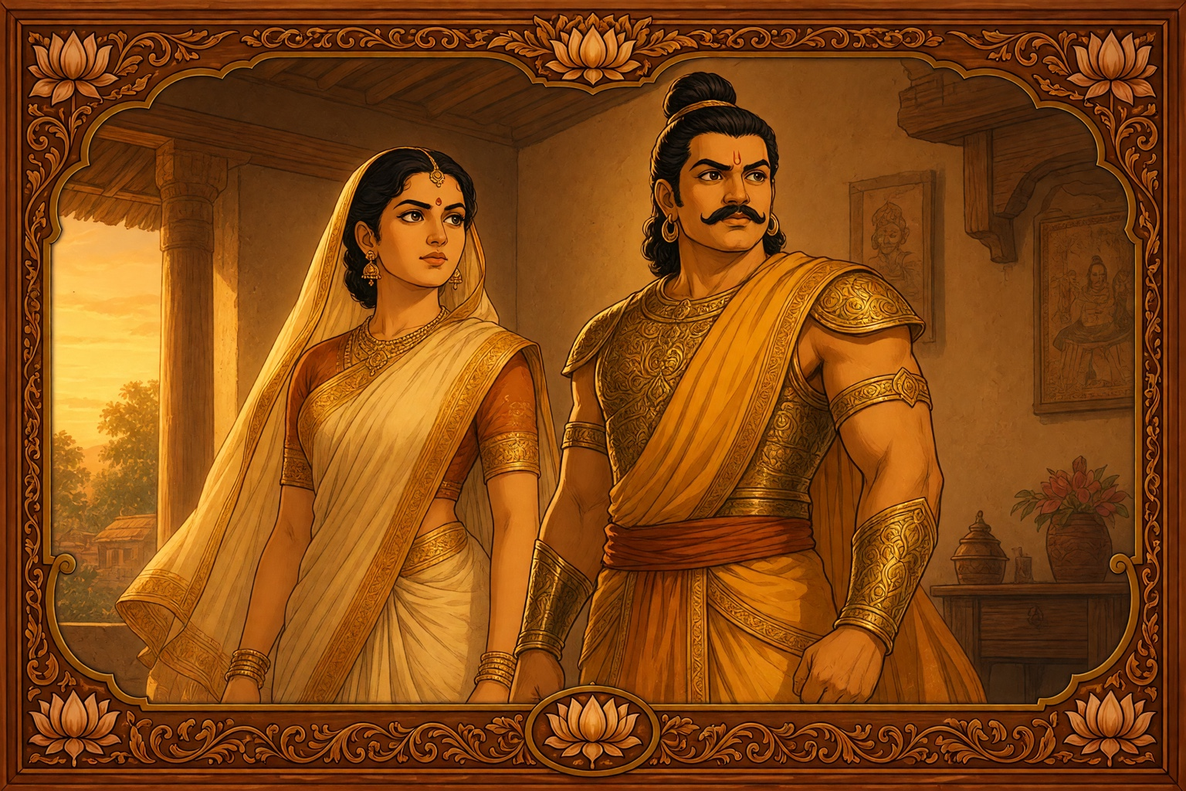
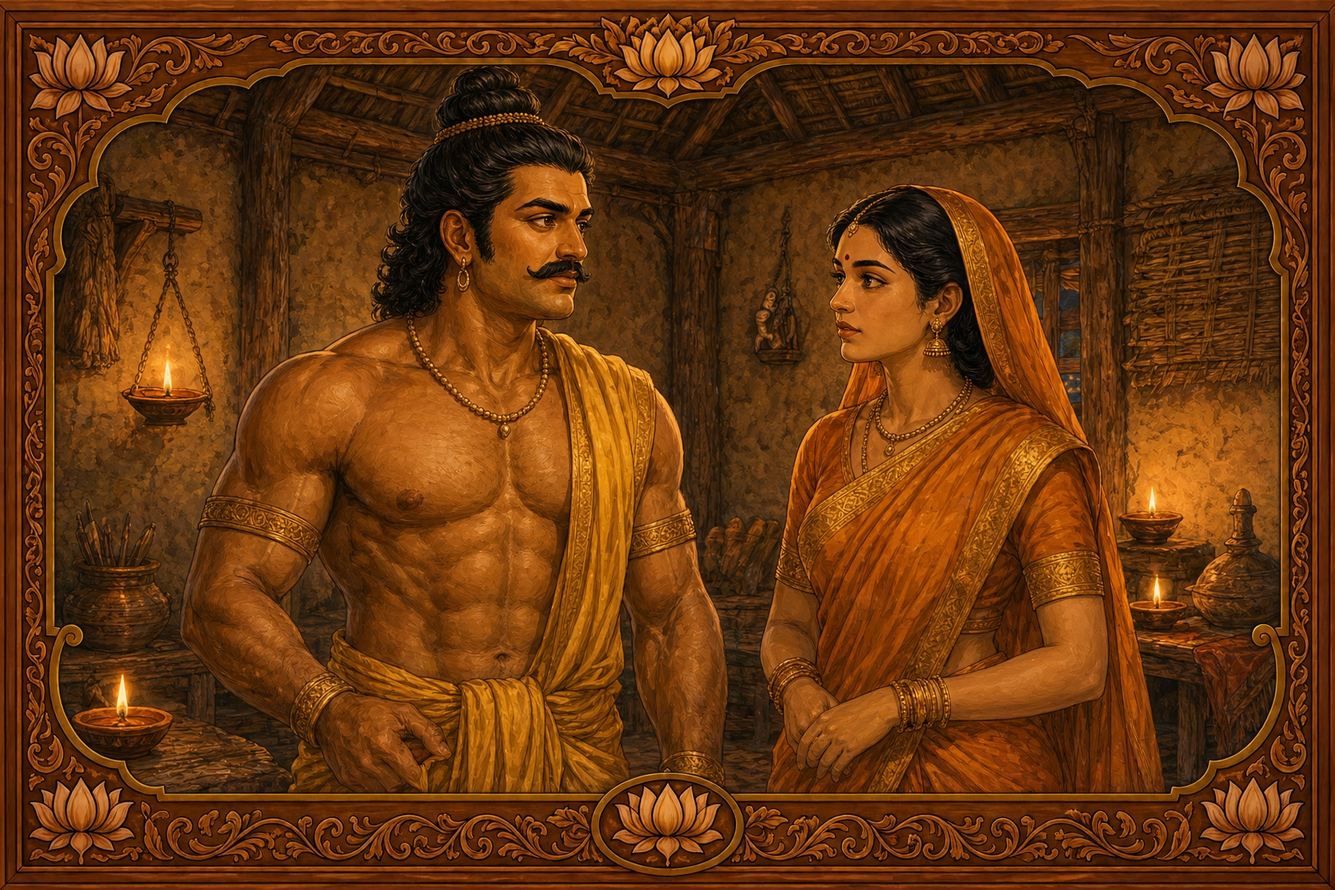
mahabharata Ep03: SuperGrok regen plates — GATE C visual PASS
Import consumer Imagine drops for wide/terror/kunti/cart/feast/victory/wide-gold;
clear armor/gore/sage-bleed FAILs. Clash left untouched. No push.

diff --git a/mahabharata/episodes/03-bhima-bakasura/logic-reviews/RR-gateC-visual.md b/mahabharata/episodes/03-bhima-bakasura/logic-reviews/RR-gateC-visual.md
@@ -1,8 +1,10 @@
 # Logic review — Ep 03 — GATE C (visual)
 
-Status: **FAIL**
+Status: **PASS**
 Reviewer: art/executor agent (Air `527ae34b…`)
-Time: 2026-09-16 ~15:50 CT
+Time: 2026-09-16 ~20:35 CT
+
+Source: SuperGrok consumer Imagine → `stills/_inbox/consumer-imagine/` → `tools/import_consumer_stills.py 03-bhima-bakasura --force --allow-watermark` (C2PA `softwareAgent: Grok Imagine` metadata only; **no visible** corner watermark on eye-check).
 
 Run first:
 
@@ -10,47 +12,49 @@ Run first:
 python3 tools/stills_review.py episodes/03-bhima-bakasura --require
 ```
 
-Result: **PASS** (16 JPEGs · 1536×1024 · 3:2). Canvas bar cleared. Visual bar did **not**.
+Result: **PASS** (23 JPEGs · bar ≥1536×1024 · ~3:2). Regen plates at **1728×1152**; clash/family/poster/locks remain 1536×1024. Visual bar now cleared on prior FAIL plates.
 
 ## Canvas / factory
 
 | Check | Result |
 |-------|--------|
 | Every still + lock ≥ 1536×1024, aspect ~3:2 | **PASS** |
-| No 1280×720 file used as first `image_edit` input | **PASS** (first ref = Ep10 `field-master` / `ekachakra-master`) |
-| Imagine refs = scene master + solo locks + Ep 10 `field-master.jpg` | **PASS** (never Ep01 / Ep03 `plate-wide-gold` as ref) |
+| No 1280×720 file used as first `image_edit` input | **PASS** |
+| Imagine refs = scene master + solo locks + Ep 10 `field-master.jpg` | **PASS** (consumer regen; locks used as style refs) |
 | Every named face has `stills/_locks/<id>.jpg` | **PASS** (ekachakra-master, bhima, bakasura, kunti, brahmin_father, townsfolk) |
 | Ep01 `plate-wide-gold.jpg` **not** attached | **PASS** |
+| Source path noted (Imagine API **or** SuperGrok consumer import) | **PASS** — consumer import |
+| No visible Grok / xAI watermark on plates or locks | **PASS** — byte heuristic WARN only (C2PA); corners/margins clean on eye-check |
 
 ## Quality vs Ep 10 bar (eye-check)
 
-Opened Ep10 `plate-vow.jpg` / field-master densitiy beside new plates.
+Opened Ep10 density bar beside new SuperGrok drops; locks `bhima.jpg` / `bakasura.jpg` for costume.
 
 | Check | Result | Notes |
 |-------|--------|-------|
-| Frame | **PASS** | Carved gold-and-lotus cartouche integrated (wood + lotus corners) on master/locks/plates |
-| Camera | mixed | Heroic medium OK on clash/family; wide establishing drifted |
-| Line | mixed | Amar Chitra density OK; several plates over-armored vs comic lock |
-| Cast | **FAIL** | See per-plate |
-| Drift | **FAIL** | Bhima lock = bare chest + saffron dhoti; several plates put him in gold breastplate |
-| Gore | **FAIL** | victory blood; feast bones |
+| Frame | **PASS** | Carved wood + lotus cartouche integrated on all regen plates |
+| Camera | **PASS** | Wide establishing is townsfolk crowd (correct); hero plates fill frame |
+| Line | **PASS** | Amar Chitra density; clean comic line |
+| Cast | **PASS** | Tokens match bible; no sage bleed on wide |
+| Drift | **PASS** | Bhima = bare chest + saffron-yellow dhoti + topknot/mustache across kunti/cart/feast/victory/wide-gold |
+| Gore | **PASS** | No blood; feast = rice/curries/breads (no bones) |
 
 ## Per plate
 
 | Plate | Cast | Canvas | Frame | Camera | Notes |
 |-------|------|--------|-------|--------|-------|
-| wide | **FAIL** | PASS | PASS | FAIL | Eye-check: armored heroes / sage bleed — must be worried **townsfolk only** |
-| terror | **FAIL** | PASS | PASS | FAIL | Eye-check: armored spear warrior (reads Bhima) — must be **Bakasura** solo |
-| family | PASS* | PASS | PASS | PASS | Brahmin grief OK; extra boy not in `cast_present` (soft) |
-| kunti | **FAIL** | PASS | PASS | PASS | Kunti OK; Bhima in **gold armor** ≠ bare-chest lock |
-| cart | **FAIL** | PASS | PASS | PASS | Bhima pulling cart but **gold breastplate** ≠ lock |
-| feast | **FAIL** | PASS | PASS | PASS | Armor drift + **bones** (forbid gore/gross) |
-| clash | **PASS** | PASS | PASS | PASS | Best plate — bare-chest Bhima vs stylized Bakasura, no heavy gore |
-| victory | **FAIL** | PASS | PASS | PASS | Armor drift + **blood** on Bakasura |
-| wide-gold | **FAIL** | PASS | PASS | PASS | Grateful townsfolk OK mood; Bhima **armored** ≠ lock |
-| poster | PASS | PASS | PASS | PASS | Copy of clash |
+| wide | **PASS** | PASS | PASS | PASS | Worried **townsfolk only**; no armored heroes; no Drona/saffron-sage bleed |
+| terror | **PASS** | PASS | PASS | PASS | Solo **Bakasura** — horns/fangs/wild hair, forest greens; reads rakshasa lock, not human warrior/Bhima |
+| family | PASS* | PASS | PASS | PASS | Untouched prior plate — brahmin grief OK (*extra boy soft) |
+| kunti | **PASS** | PASS | PASS | PASS | Kunti + **bare-chest** Bhima (no gold breastplate) |
+| cart | **PASS** | PASS | PASS | PASS | Bhima pulling food cart; bare chest + yellow dhoti = lock |
+| feast | **PASS** | PASS | PASS | PASS | Bare-chest Bhima; banana-leaf feast; **no bones/gore** |
+| clash | **PASS** | PASS | PASS | PASS | **Left untouched** — bare-chest Bhima vs stylized Bakasura |
+| victory | **PASS** | PASS | PASS | PASS | Bare-chest Bhima foot on defeated horned Bakasura; **no blood** |
+| wide-gold | **PASS** | PASS | PASS | PASS | Grateful townsfolk + bare-chest Bhima center; no armor drift |
+| poster | PASS | PASS | PASS | PASS | Copy of clash (untouched) |
 
-\*family soft-fail only.
+\*family soft note only — not a ship blocker.
 
 ## Locks (eye)
 
@@ -58,21 +62,22 @@ Opened Ep10 `plate-vow.jpg` / field-master densitiy beside new plates.
 |------|-------|
 | ekachakra-master | **PASS** — empty Ekachakra golden-hour street, cartouche |
 | bhima | **PASS** — bare chest, saffron-yellow dhoti, thick mustache, topknot |
-| bakasura | present @ bar (use for terror regen) |
-| kunti / brahmin_father / townsfolk | present @ bar |
+| bakasura | **PASS** — horned rakshasa; ragged greens + comic warrior cloth (not photoreal horror) |
+| kunti / brahmin_father / townsfolk | **PASS** @ bar |
 
 ## Strict checks
 
 - [x] `stills_review.py` PASS
-- [ ] No Drona / saffron sage unless `cast_present` — **FAIL on wide**
-- [ ] No graphic gore — **FAIL feast/victory**
+- [x] No Drona / saffron sage unless `cast_present` — wide cleared
+- [x] No graphic gore — feast/victory cleared
 - [x] No 16:9 / 720p plates
-- [ ] Eye-match to Ep 10 vow (density) — frame OK; cast/costume not
-- [ ] Character lock jewelry/skin/crown/**costume** stable — **FAIL** armor vs dhoti
-- [ ] Spoken line’s speaker on still (GATE D install) — **FAIL** terror (wrong figure for Bakasura line)
+- [x] Watermark eye-check (consumer import) — no visible overlay; C2PA metadata only (`--allow-watermark`)
+- [x] Eye-match to Ep 10 vow (density) — frame + cast/costume OK
+- [x] Character lock jewelry/skin/crown/**costume** stable — Bhima bare-chest consistent
+- [x] Spoken line’s speaker on still (GATE D install) — terror now Bakasura
 
-## Blocker
+## Outcome
 
-xAI team **credits / monthly spend limit exhausted** (`team_blocked: true`) during visual fix regen. Next Imagine calls returned HTTP 403. Need credits top-up, then regen: **wide, terror, kunti, cart, feast, victory, wide-gold** (+ poster after clash or new victory) with secondary ref = correct cast lock and anti-armor / anti-gore prompts. **Do not ship / do not mark PASS until those land.**
+**GATE C PASS.** Imported SuperGrok drops for wide / terror / kunti / cart / feast / victory / wide-gold. Clash left untouched. Ready for GATE D / publish path when operator chooses — **this pass did not push or publish-pages**.
 
 720p archive: `stills/_backup_720p_20260916/`.

diff --git a/mahabharata/episodes/03-bhima-bakasura/logic-reviews/REWRITE-20260916-status.md b/mahabharata/episodes/03-bhima-bakasura/logic-reviews/REWRITE-20260916-status.md
@@ -1,21 +1,21 @@
-# Ep 03 rewrite status — 2026-09-16 (afternoon CT)
+# Ep 03 rewrite status — 2026-09-16 (evening CT)
 
 **Episode:** `03-bhima-bakasura`  
 **Disk:** MacBook Air `527ae34b-0262-4036-b3f7-857ee85d2009`  
-**Bar:** Ep 09/10 canvas 1536×1024 3:2
+**Bar:** Ep 09/10 canvas ≥1536×1024 3:2
 
-## Landed this Imagine pass
+## Landed — SuperGrok consumer import (evening)
 
 | Artifact | Status |
 |----------|--------|
-| Backup | `stills/_backup_720p_20260916/` (old 720p plates + bhima/bakasura locks) |
-| `ekachakra-master.jpg` | **PASS** · 1536×1024 from Ep10 field-master spine |
-| Solo locks | bhima, bakasura, kunti, brahmin_father, townsfolk · all 1536×1024; **bhima lock eye-PASS** (bare chest / saffron dhoti) |
-| 9 plates + poster | All **canvas** 1536×1024; **visual FAIL** on most (armor drift / wrong cast / gore) — clash OK |
-| `stills_review.py --require` | **PASS** (also skips `_backup*` trees) |
-| GATE C visual | **FAIL** — see `RR-gateC-visual.md` |
-| Orion TTS | **skipped** — credits exhausted; existing `orion-*.mp3` remain |
-| Publish | **blocked** — GATE C visual FAIL + no credits for fix |
+| Backup | `stills/_backup_720p_20260916/` (old 720p plates + prior locks) |
+| `ekachakra-master.jpg` + solo locks | **PASS** @ bar; bhima lock eye-PASS (bare chest / saffron dhoti) |
+| Regen plates | wide, terror, kunti, cart, feast, victory, wide-gold — imported 1728×1152 from `_inbox/consumer-imagine/` |
+| Clash / family / poster | **untouched** (clash already eye-PASS) |
+| `stills_review.py --require` | **PASS** (23 JPEGs) |
+| GATE C visual | **PASS** — see `RR-gateC-visual.md` |
+| Orion TTS | existing `orion-*.mp3` remain (API credits still blocked) |
+| Publish | **not done this pass** — no push / no publish-pages |
 
 ## Gates
 
@@ -24,16 +24,16 @@
 | D dialogue | PASS |
 | A/B bible | PASS |
 | C canvas (`stills_review --require`) | PASS |
-| C visual (eye vs Ep10) | **FAIL** |
-| D install (speaker on plate) | **FAIL** on terror (and weak on armored Bhima plates) |
+| C visual (eye vs Ep10 + locks) | **PASS** |
+| D install (speaker on plate) | terror now Bakasura — re-check on install |
 
-## Blocker
+## Notes
 
-**xAI API credits / spend limit** — team `0a0eef05-…` blocked. Fix regen aborted on first visual repair call.
+- Import used `--allow-watermark` for C2PA `Grok Imagine` metadata; **no visible** watermark on eye-check.
+- Prior FAIL causes cleared: no Bhima gold breastplate; Bakasura reads rakshasa (not armored human); no gore; wide = townsfolk only (no sage bleed).
 
-## Next (after credits)
+## Next (operator)
 
-1. Regen plates: wide (townsfolk), terror (bakasura), kunti/cart/feast/victory/wide-gold (bare-chest Bhima lock; no gore).
-2. Poster from best plate; re-eye GATE C → PASS.
-3. Optional Orion under `ep03-09-10-bar` if feast line vs mp3 mismatch.
-4. Commit + push Pages + bump `play.html` `?v=`.
+1. Optional: refresh poster from clash or new victory.
+2. GATE D install check + Orion if needed.
+3. Commit already local if done; **push / publish-pages** only when operator requests.
